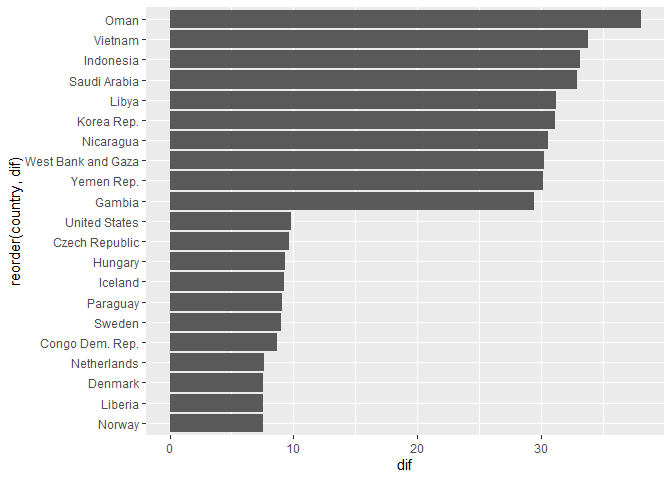
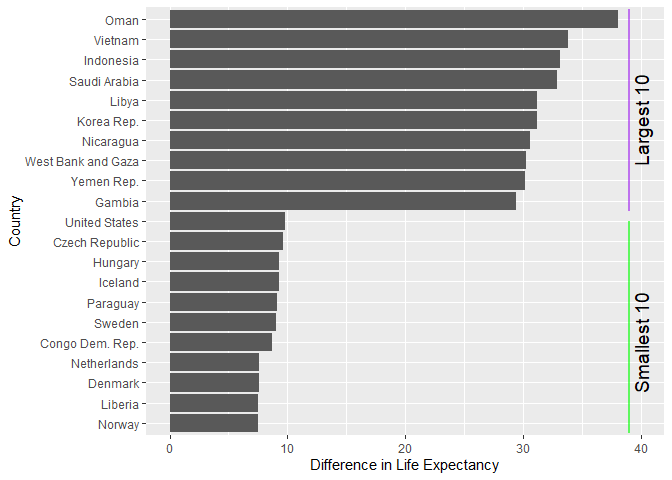
added axis labels, line annotations and text annottions to last example

diff --git a/R/dplyr/dplyr.md b/R/dplyr/dplyr.md
@@ -743,17 +743,23 @@ Let’s say we want to calulate the variation (range) in life expectancy
 per country and plot the top and bottom 10 countries?
 
 ``` r
-# top and bottom variations in life expectancy
 gapminder %>% 
   group_by(country) %>% 
   summarise(maxLifeExp = max(lifeExp),
             minLifeExp = min(lifeExp)) %>% 
-  mutate(dif = maxLifeExp - minLifeExp) %>% 
-  arrange(desc(dif)) %>% 
-  slice(1:10, (nrow(.)-10):nrow(.)) %>% 
+  mutate(dif = maxLifeExp - minLifeExp) %>%  # new col with difference betwen max/min lifeExp
+  arrange(desc(dif)) %>%  # arrange by dif, descending order for the next step
+  slice(1:10, (nrow(.)-10):nrow(.)) %>%  # slice top 10 rows and bottom 10 rows
   ggplot(aes(x = reorder(country, dif), y = dif)) +
   geom_col() +
-  coord_flip()
+  coord_flip() + # flip the x and y axis for a horizontal bar chart
+  labs(x = "Country",
+       y = "Difference in Life Expectancy") + # prettier labels for axes (which have been flipped) 
+  annotate("segment", x = 11.5, xend = 21.5, y = 39, yend = 39, colour = "purple", size=1, alpha=0.6) +
+  annotate("segment", x = 0.5, xend = 11, y = 39, yend = 39, colour = "green", size=1, alpha=0.6) +
+    annotate("text", x = c(5, 16), y = c(40, 40), 
+           label = c("Smallest 10", "Largest 10") ,
+           color="black", size= 5 , angle=90) # add labels to colored lines
 ```
 
 ![](dplyr_files/figure-gfm/unnamed-chunk-30-1.png)<!-- -->
